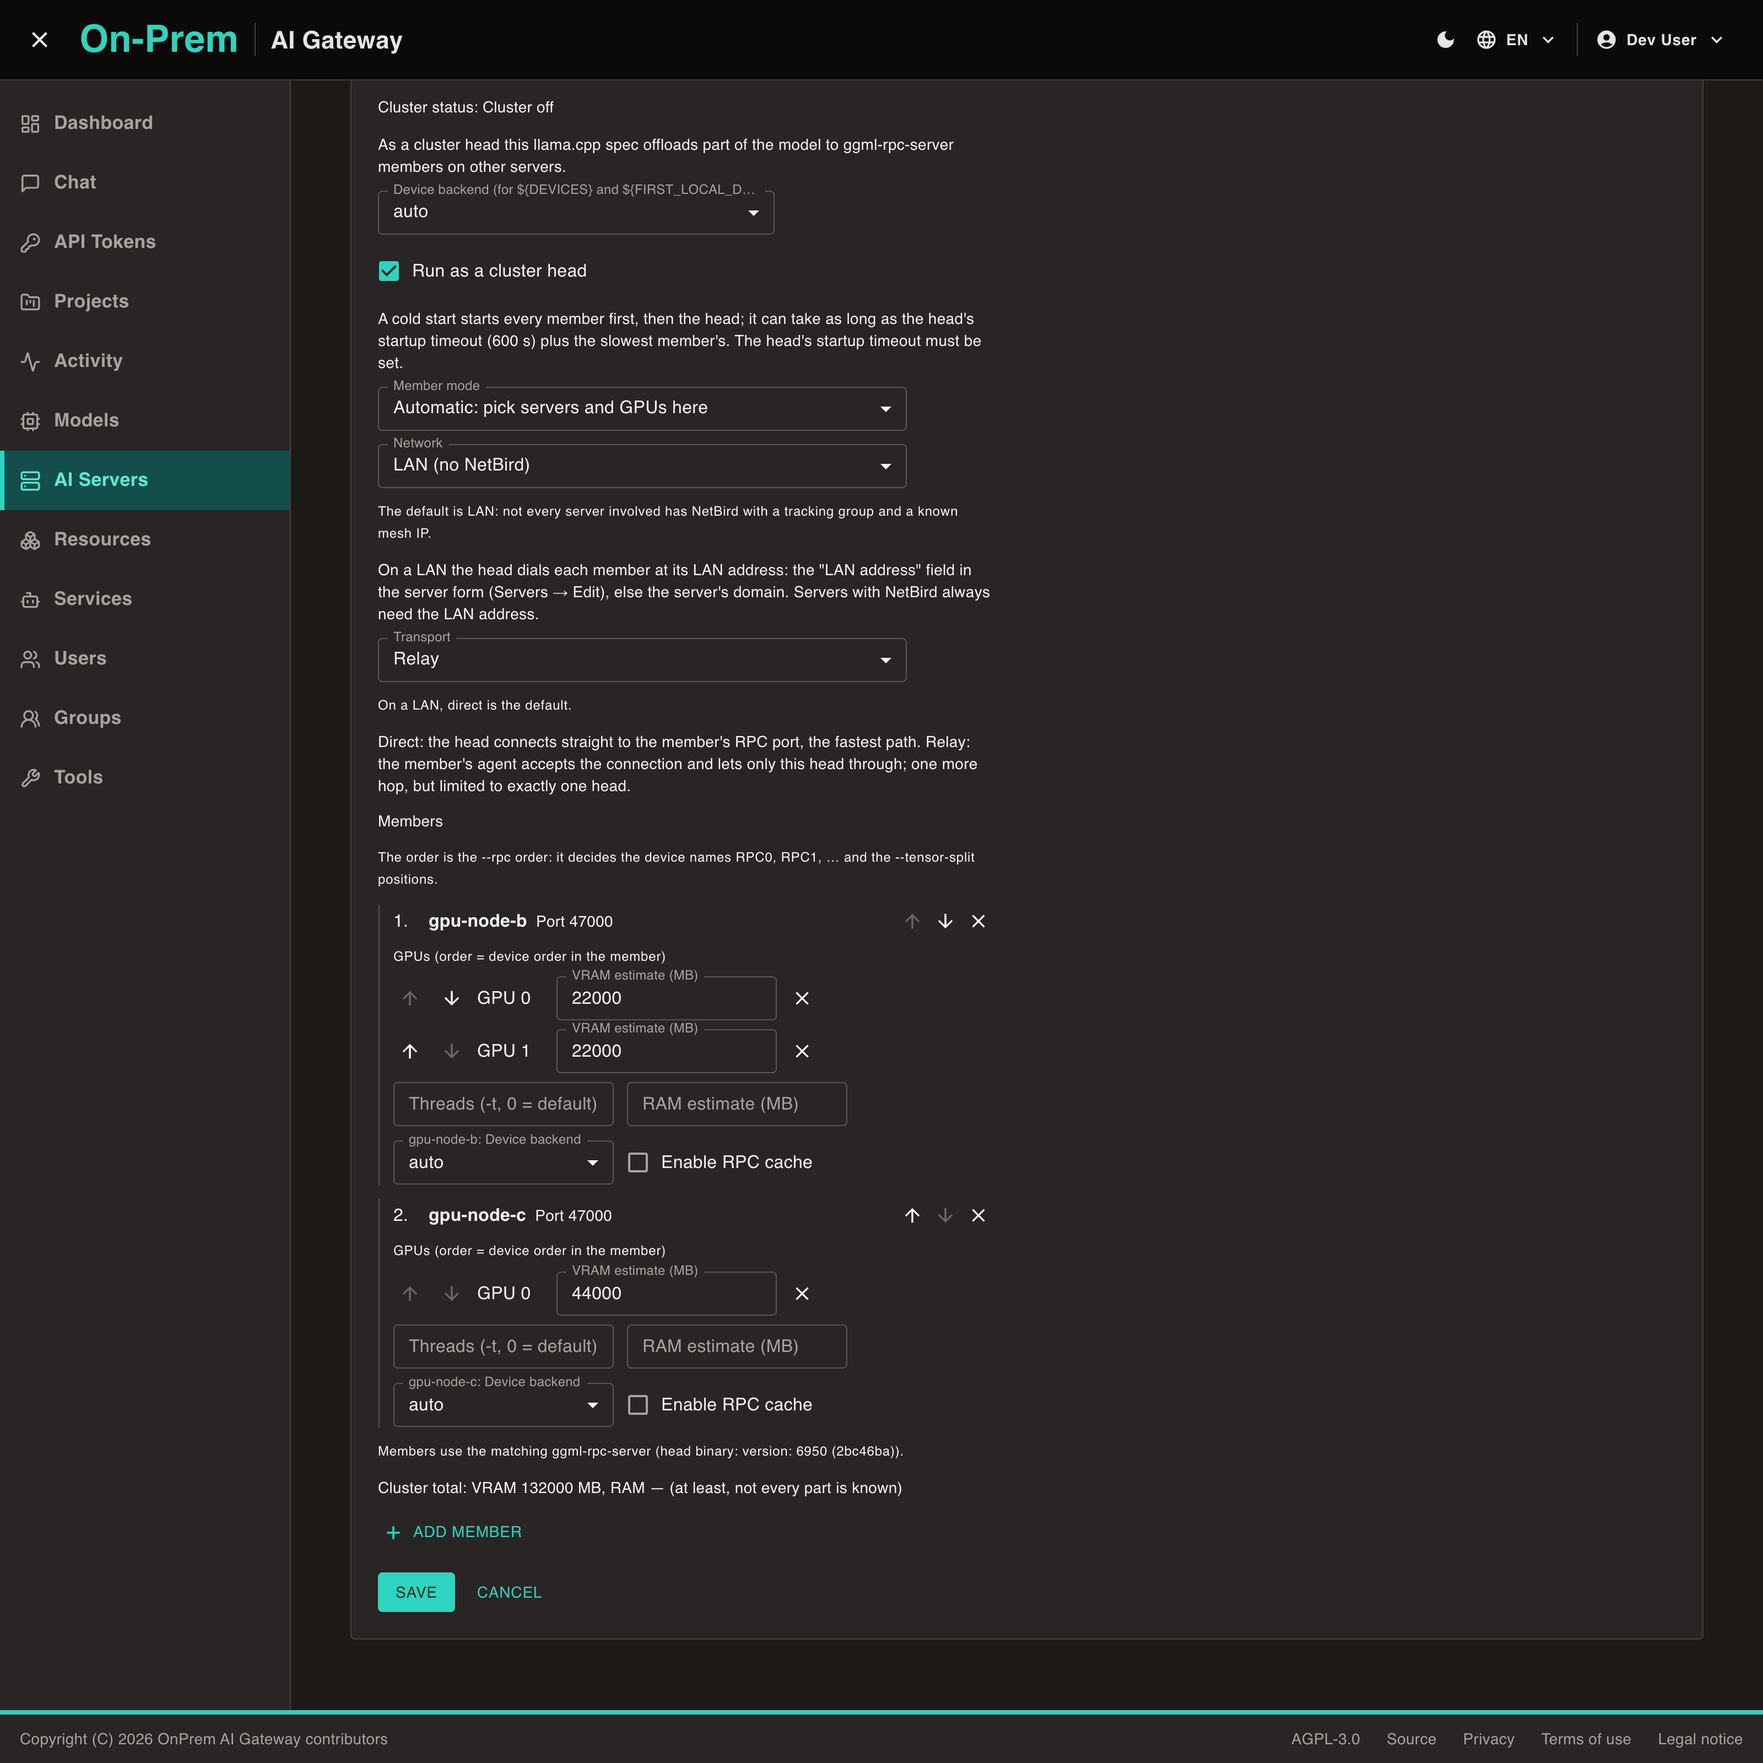
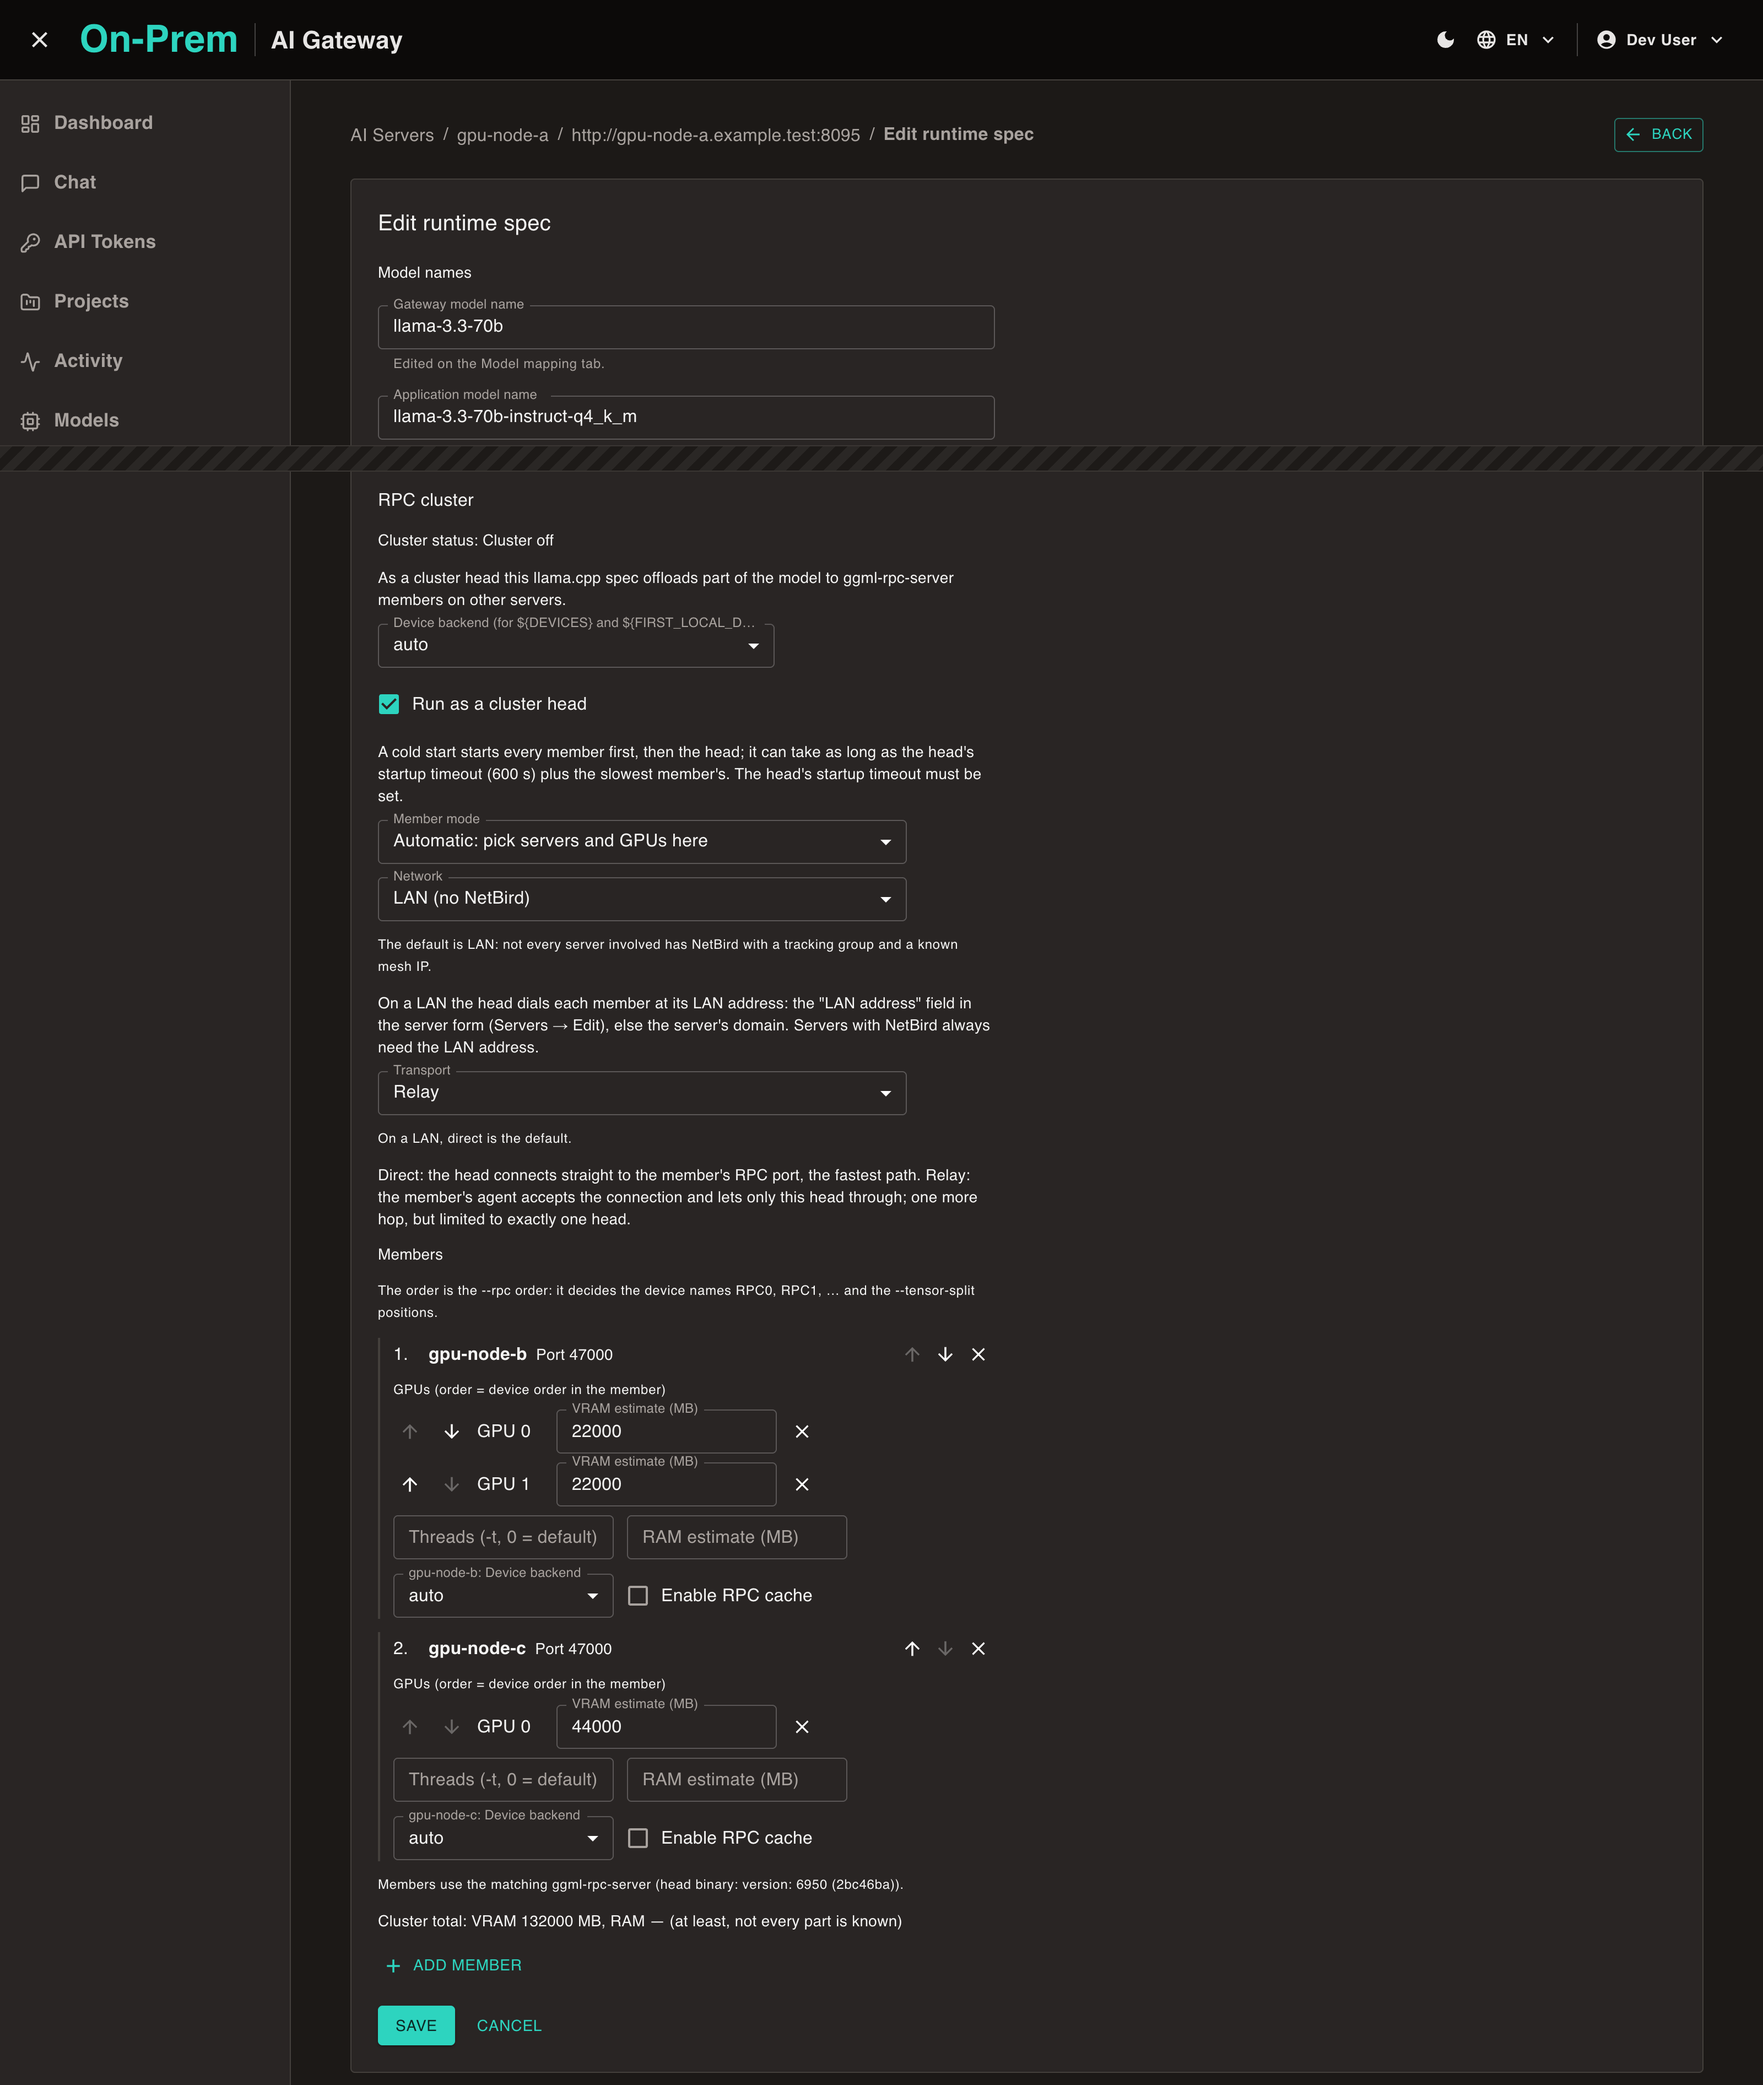
docs: frame the RPC cluster screenshot with the editor header
The cluster screenshot started in the middle of the runtime spec editor,
so it did not show which model and server it belonged to. The editor is one
page about 6,200 CSS px tall, with the RPC cluster section near its end, so
no single viewport shows both. The image now stacks two crops of the same
render, with a hatched band marking the cut: the header (breadcrumb with
gpu-node-a, "Edit runtime spec", model llama-3.3-70b) and the full RPC
cluster section. Format: 1600 px wide at 2x.

The head is a saved, enabled cluster head: cluster_enabled is true, nothing
withholds it, and its state is cold. "Cluster off" is the portal's English
label for that cold state (clusterStateCold), not a disabled or withheld
cluster. The caption now says the cluster is configured but not started.

diff --git a/README.md b/README.md
@@ -190,9 +190,9 @@ servers, models, launch specifications, users, and policies in a bilingual
 | :---: | :---: |
 | ![Activity view — usage, cost and energy analytics](docs/images/portal-activity.png) | ![Models view — model visibility and model groups](docs/images/portal-models.png) |
 
-| llama.cpp RPC cluster head |
+| llama.cpp RPC cluster head (editor header, then its RPC cluster section) |
 | :---: |
-| ![Runtime spec editor — a cluster head with two automatic members](docs/images/portal-rpc-cluster.png) |
+| ![Runtime spec editor of llama-3.3-70b on gpu-node-a: the header, then the RPC cluster section of a configured cluster that has not been started yet ("Cluster off"), with two automatic members](docs/images/portal-rpc-cluster.png) |
 
 ## How it works
 
